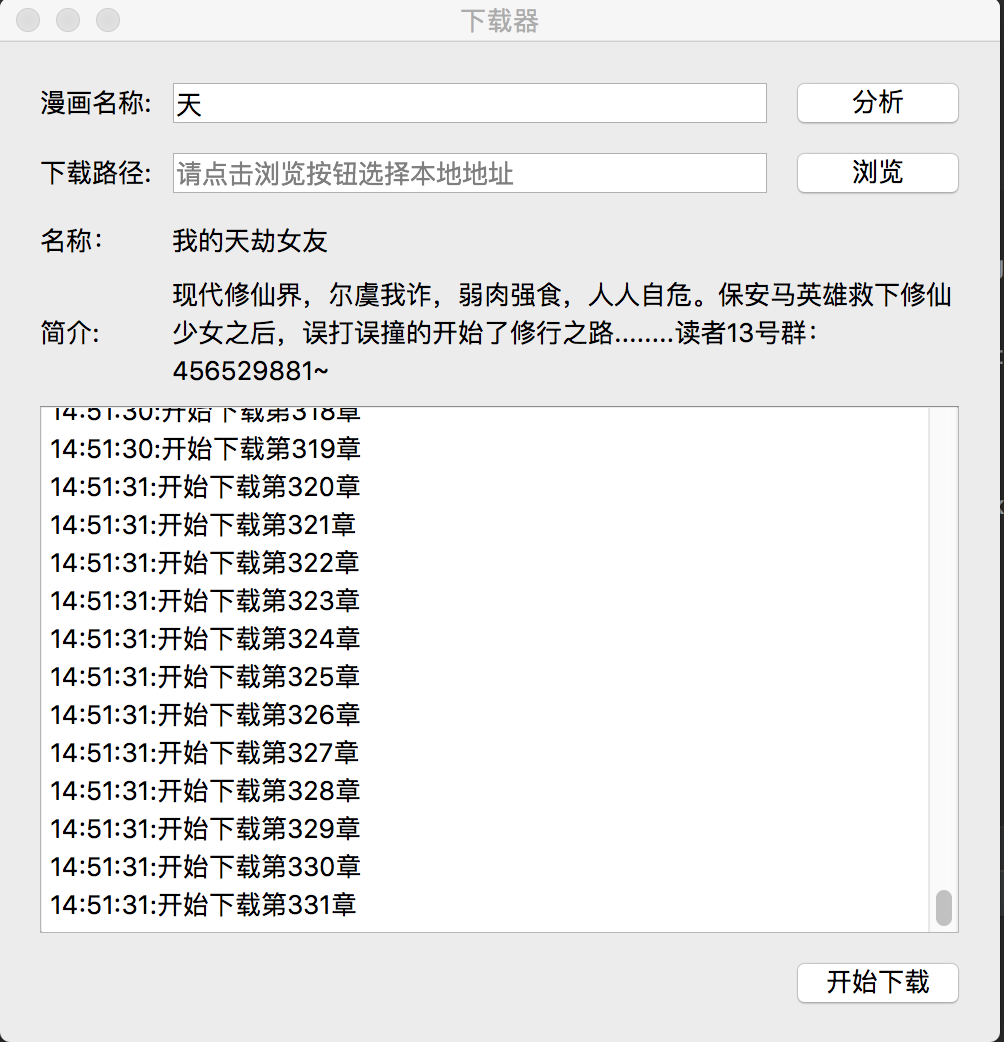
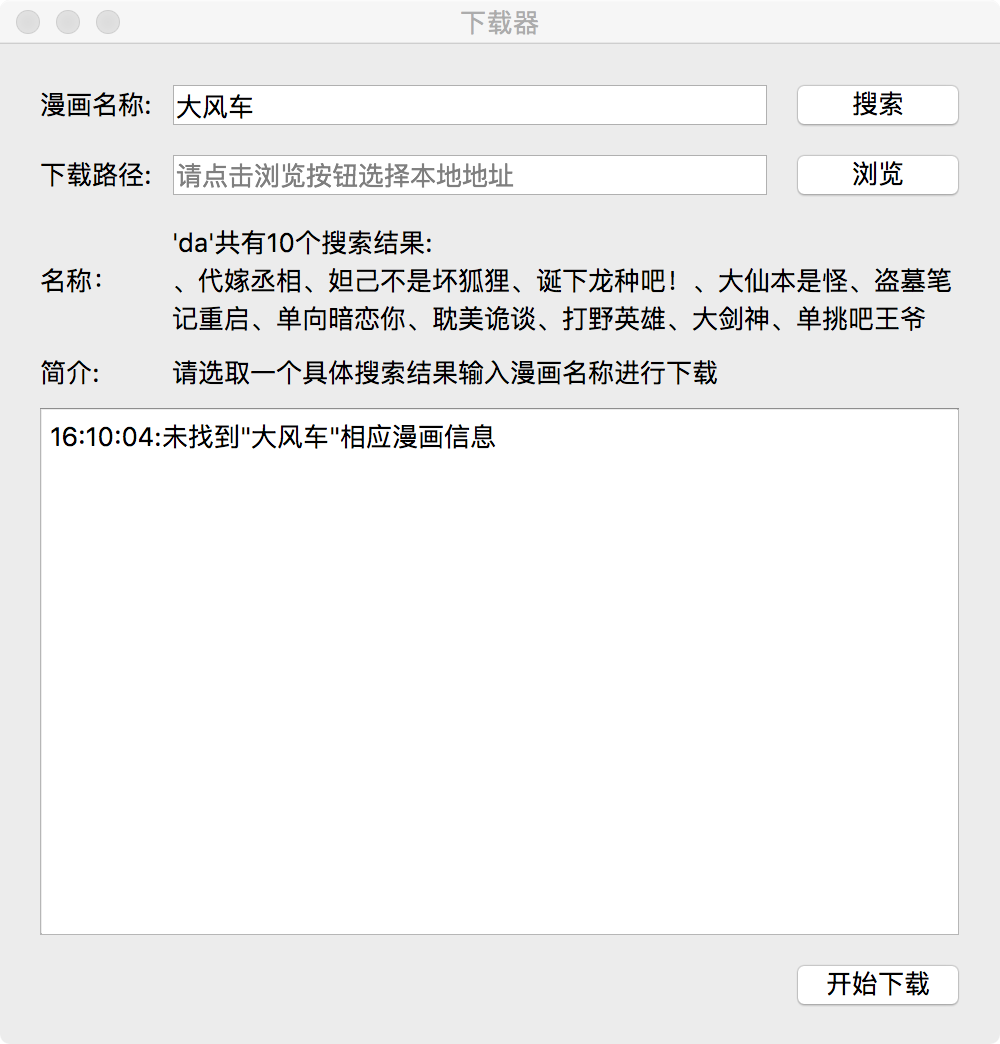
fix

diff --git a/src/spider_ui.py b/src/spider_ui.py
@@ -30,10 +30,11 @@ class SpiderUi(QWidget):
         super().__init__()
         self.layout_main = QGridLayout()
         self.url_line = QLineEdit()
-        self.url_btn = QPushButton("分析")
+        self.url_btn = QPushButton("搜索")
         self.down_line = QLineEdit()
         self.down_btn = QPushButton("浏览")
         self.down_title = QLabel('暂无')
+        self.down_title.setWordWrap(True)
         self.down_des = QLabel('暂无')
         self.down_des.setWordWrap(True)
         self.detail_list = QTextEdit()
@@ -80,7 +81,7 @@ class SpiderUi(QWidget):
     def ui_des(self):
         title = QLabel('名称：')
         des = QLabel('简介: ')
-        self.layout_main.addWidget(title, 2, 0)
+        self.layout_main.addWidget(title, 2, 0, 1, 2)
         self.layout_main.addWidget(self.down_title, 2, 1, 1, 2)
         self.layout_main.addWidget(des, 3, 0)
         self.layout_main.addWidget(self.down_des, 3, 1, 1, 2)
@@ -97,17 +98,33 @@ class SpiderUi(QWidget):
     def url_handler(self):
         url = self.url_line.text()
         items = SpiderComic.get_list_by_book_name(url)
+        res_name = ''
+        res_des = '请选取一个具体搜索结果输入漫画名称进行下载'
+        res_count = 0
         if 1 < len(items):
-            book_id = SpiderComic.get_list_by_book_name(url)[0][0]
-            info = SpiderComic.get_list_video(book_id)
-            book_name = info['title'].strip()
-            book_des = info['brief_intrd']
-            self.set_book_msg(book_name, book_des)
+            for item in items:
+                if 2 == len(item):
+                    book_id = item[0]
+                    book_name = item[1]
+                    if book_name == url:
+                        info = SpiderComic.get_list_video(book_id)
+                        if 'brief_intrd' in info:
+                            book_des = info['brief_intrd']
+                            res_des = book_des
+                        res_name = url
+                        res_count = 1
+                        break
+                    else:
+                        res_count += 1
+                        res_name = '{}、{}'.format(res_name, book_name)
+            if 1 != res_count:
+                res_name = '\'{}\'共有{}个搜索结果:\n{}'.format(url, res_count, res_name)
+            self.set_book_msg(res_name, res_des)
         else:
             if not url:
                 self.next_detail('请先输入漫画名称')
             else:
-                self.next_detail('未找到相应漫画信息')
+                self.next_detail('未找到"{}"相应漫画信息'.format(url))
 
     def local_path(self):
         current_dir = os.path.dirname(os.path.realpath(__file__))
